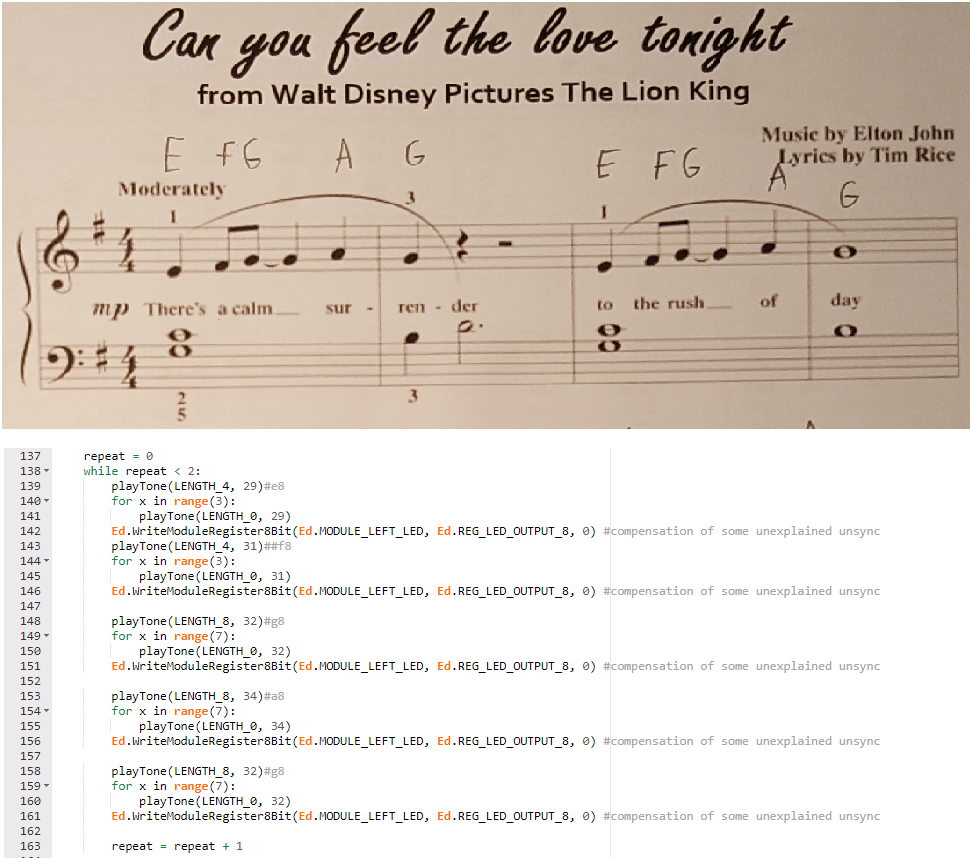
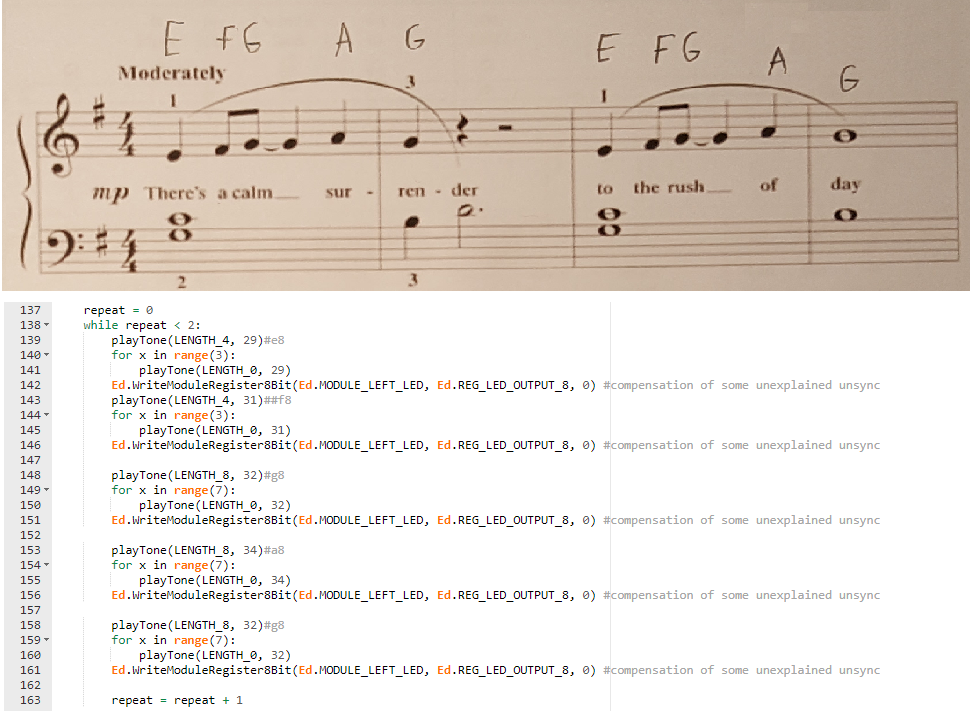
* Minor changes

diff --git a/index.html b/index.html
@@ -50,16 +50,15 @@
             <table style="border:1px solid black;border-collapse:collapse;">
                 <tr>
                     <td class="youtube_td">
-                        <iframe width="425" height="240" src="https://www.youtube.com/embed/AzZiw1AkHkA?rel=0&amp;showinfo=0" allowfullscreen></iframe><br>
+                        <iframe width="425" height="240" src="https://www.youtube.com/embed/QHReAxwBLfY?rel=0&amp;showinfo=0" allowfullscreen></iframe><br>
                     </td>
                     <td class="info_td">
                         Program a robot to sing.<br>
                         <ul>
                             <li>Teaching Edison robot how to sing 'Can you feel the love tonight?'.</li>
                             <li>The coding is done in EdPy using Python.</li>
-                            <li>Music scores &#8594 Letter names &#8594 EdPy code</li>
                             <li>
-                                <img class="myImg" src="images/drawings/Scores2.png" style="display:inline-block; vertical-align:middle;" width="400" height="100" alt="EdPy" onclick="showImage(this, '', 'images/drawings/Scores.png');"></img>
+                                <img class="myImg" src="images/drawings/Scores2.png?1" style="display:inline-block; vertical-align:middle;" width="400" height="100" alt="Music score &#8594 EdPy code" onclick="showImage(this, '', 'images/drawings/Scores.png?2');"></img>
                             </li>
                         </ul>
                     </td>
@@ -92,7 +91,7 @@
                             <li>Drawing the two main characters using Krita in Android.</li>
                             <li>Initial design of the characters:</li>
                             <li>
-                                <img class="myImg" src="images/drawings/Tim1.png" style="display:inline-block; vertical-align:middle;" width="130" height="171" alt="Tim's expressions" onclick="showImage(this, '');"></img>
+                                <img class="myImg" src="images/drawings/Tim1.png" style="display:inline-block; vertical-align:middle;" width="130" height="171" alt="Tim's expressions" onclick="showImage(this, 'https://www.youtube.com/watch?v=xI-c0MyWuoA');"></img>
                                 <img class="myImg" src="images/drawings/Tim2.png" style="display:inline-block; vertical-align:middle;" width="130" height="171" alt="Different characters" onclick="showImage(this, '');"></img>
                             </li>
                         </ul>
@@ -106,7 +105,7 @@
                         Hacking Super Nintendo - Editing 'Zelda A Link To The Past'.<br>
                         <ul>
                             <li>Pixel art design character for Zelda</li>
-                            <li>Hacking SNES using CHR editor</li>
+                            <li>Editing SNES game using CHR editor</li>
                             <li>
                                 <img class="myImg" src="images/Zelda_editing_face.png" style="display:inline-block; vertical-align:middle;" width="171" height="80" alt="Howard as Zelda" onclick="showImage(this, '');"></img>
                             </li>
